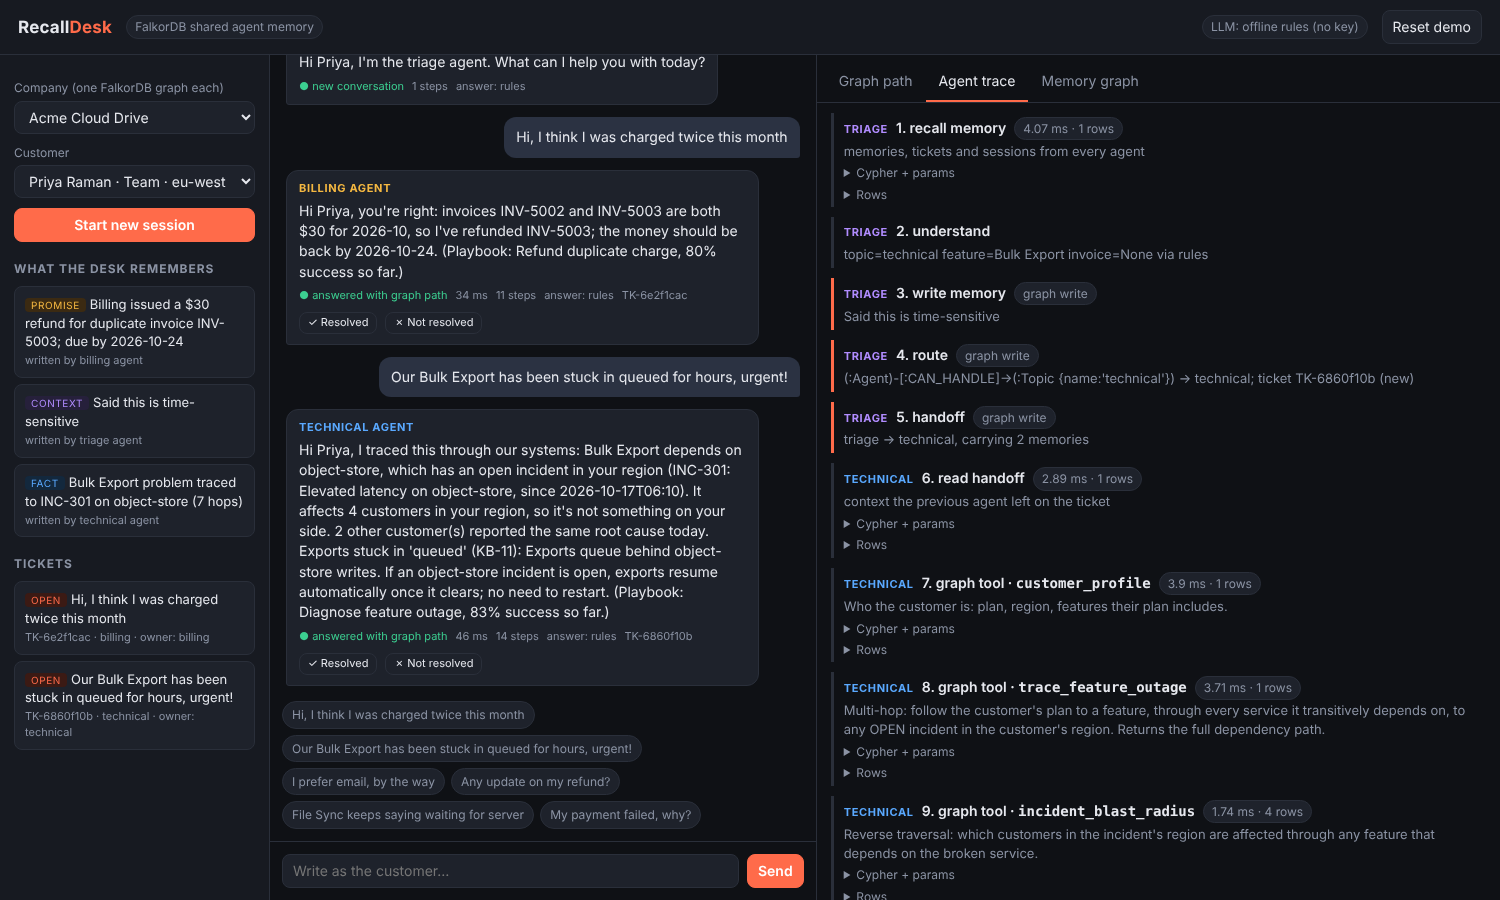
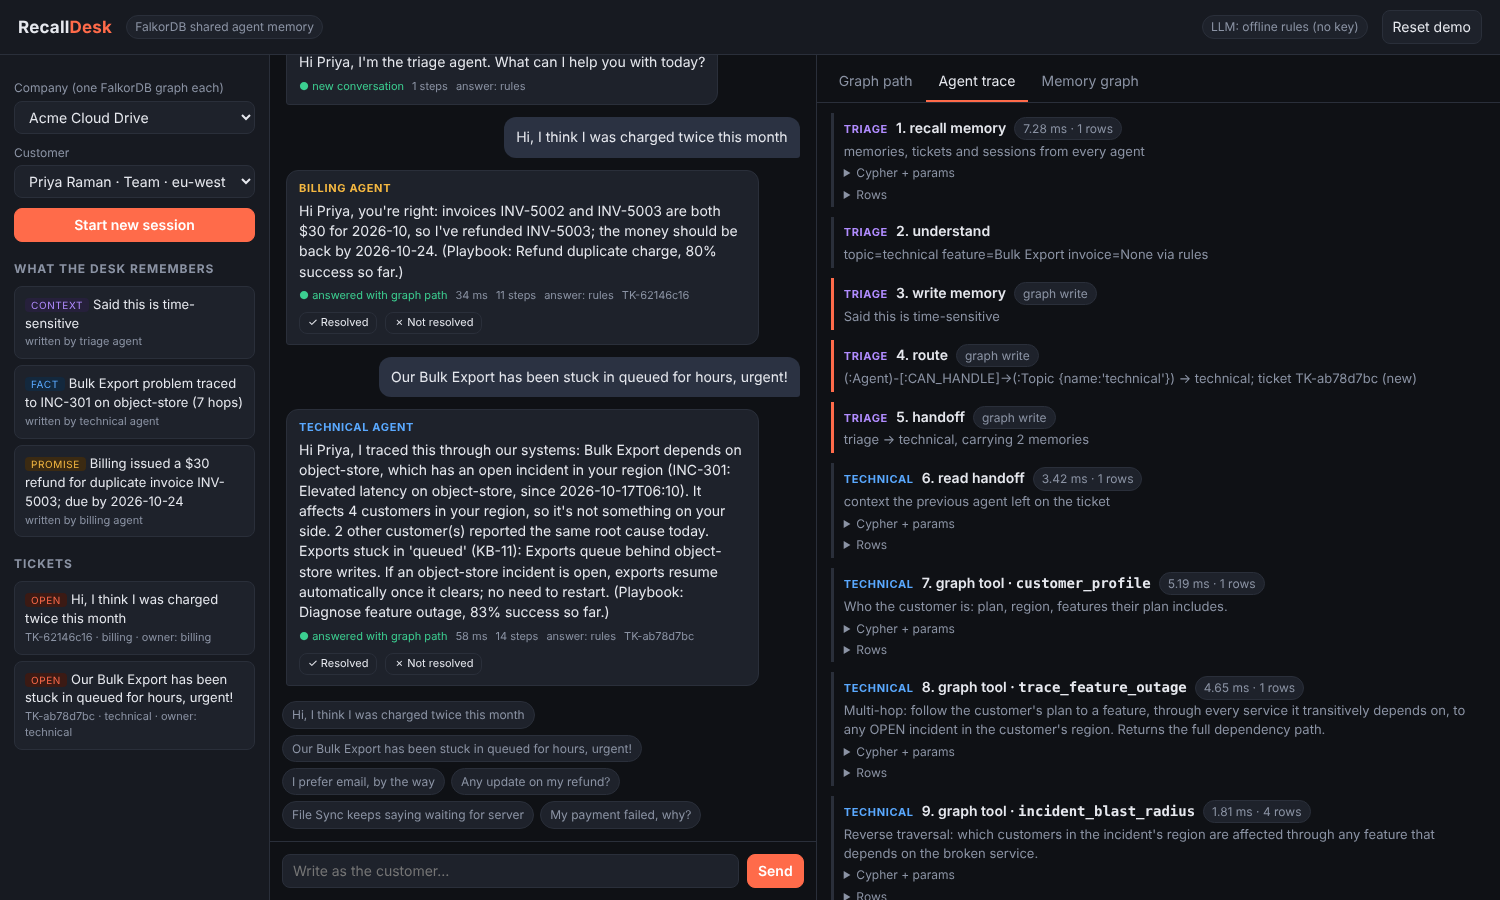
Fix review findings: escape all UI values, drop stale replies, guard double submits
- validate LLM-extracted memory kinds server-side
- reject chat calls whose session belongs to another customer
- disable feedback buttons while the request runs
- destroy old graph views and keep each pane's legend separate

Claude-Session: https://claude.ai/code/session_01CagK68oFQtg6EDcHFuKGZg

diff --git a/static/index.html b/static/index.html
@@ -132,12 +132,14 @@ function addMsg(role, agent, text, meta) {
 
 function renderMemory(m) {
   const mem = m.memories || [], tk = m.tickets || [];
-  $('#memories').innerHTML = mem.length ? mem.map(x => `<div class="mem"><span class="kind k-${x.kind}">${x.kind}</span>${esc(x.text)}<small>written by ${x.by} agent${x.hits > 1 ? ` · seen ${x.hits}×` : ''}</small></div>`).join('') : '<div class="hint">No memories yet.</div>';
-  $('#tickets').innerHTML = tk.length ? tk.map(t => `<div class="mem"><span class="kind k-${t.status}">${t.status}</span>${esc(t.summary)}<small>${t.id} · ${t.topic} · owner: ${t.owner}</small></div>`).join('') : '<div class="hint">No tickets yet.</div>';
+  $('#memories').innerHTML = mem.length ? mem.map(x => `<div class="mem"><span class="kind k-${esc(x.kind)}">${esc(x.kind)}</span>${esc(x.text)}<small>written by ${esc(x.by)} agent${x.hits > 1 ? ` · seen ${x.hits}×` : ''}</small></div>`).join('') : '<div class="hint">No memories yet.</div>';
+  $('#tickets').innerHTML = tk.length ? tk.map(t => `<div class="mem"><span class="kind k-${esc(t.status)}">${esc(t.status)}</span>${esc(t.summary)}<small>${esc(t.id)} · ${esc(t.topic)} · owner: ${esc(t.owner)}</small></div>`).join('') : '<div class="hint">No tickets yet.</div>';
 }
 
-function drawGraph(el, g, highlight) {
-  if (!g || !g.nodes.length) { el.innerHTML = '<div class="hint">No graph elements for this step.</div>'; return null; }
+function drawGraph(el, g, old, legend) {
+  if (old) old.destroy();
+  if (legend) legend.innerHTML = '';
+  if (!g || !g.nodes.length) { el.innerHTML = '<div class="hint">No graph elements for this answer.</div>'; return null; }
   el.innerHTML = '';
   const nodes = g.nodes.map(n => ({id: n.id, label: n.caption.length > 28 ? n.caption.slice(0, 26) + '…' : n.caption,
     title: n.label + '\n' + Object.entries(n.props).map(([k, v]) => `${k}: ${Array.isArray(v) ? v.join(' → ') : v}`).join('\n'),
@@ -148,13 +150,13 @@ function drawGraph(el, g, highlight) {
   const nw = new vis.Network(el, {nodes: new vis.DataSet(nodes), edges: new vis.DataSet(edges)},
     {physics: {solver: 'forceAtlas2Based', forceAtlas2Based: {gravitationalConstant: -60, springLength: 110}, stabilization: {iterations: 150}},
      interaction: {hover: true, tooltipDelay: 80}});
-  $('#legend').innerHTML = [...new Set(g.nodes.map(n => n.label))].map(l => `<span><i style="background:${COLORS[l] || '#888'}"></i>${l}</span>`).join('');
+  if (legend) legend.innerHTML = [...new Set(g.nodes.map(n => n.label))].map(l => `<span><i style="background:${COLORS[l] || '#888'}"></i>${esc(l)}</span>`).join('');
   return nw;
 }
 
 function renderTrace(steps) {
   $('#trace').innerHTML = steps.map((s, i) => `<div class="step ${s.kind}">
-    <div class="h"><span class="who ${s.agent}">${s.agent}</span><span class="a">${i + 1}. ${esc(s.action)}${s.tool ? ` · <code>${s.tool}</code>` : ''}</span>
+    <div class="h"><span class="who ${esc(s.agent)}">${esc(s.agent)}</span><span class="a">${i + 1}. ${esc(s.action)}${s.tool ? ` · <code>${esc(s.tool)}</code>` : ''}</span>
     ${s.ms != null ? `<span class="badge">${s.ms} ms · ${s.row_count} rows</span>` : ''}${s.kind === 'write' ? '<span class="badge">graph write</span>' : ''}</div>
     <div class="d">${esc(s.detail)}</div>
     ${s.cypher ? `<details><summary>Cypher + params</summary><pre>${esc(s.cypher)}\n\n${esc(JSON.stringify(s.params))}</pre></details>` : ''}
@@ -164,41 +166,54 @@ function renderTrace(steps) {
 
 function handle(res) {
   const meta = document.createElement('div'); meta.className = 'meta';
-  meta.innerHTML = `<span class="outcome">● ${res.outcome}</span>${res.ms ? `<span>${res.ms} ms</span>` : ''}<span>${res.trace.length} steps</span><span>answer: ${res.composer}</span>`;
+  meta.innerHTML = `<span class="outcome">● ${esc(res.outcome)}</span>${res.ms != null ? `<span>${res.ms} ms</span>` : ''}<span>${res.trace.length} steps</span><span>answer: ${esc(res.composer)}</span>`;
   if (res.ticket) {
-    meta.innerHTML += `<span>${res.ticket}</span>`;
+    meta.insertAdjacentHTML('beforeend', `<span>${esc(res.ticket)}</span>`);
     for (const [label, ok] of [['✓ Resolved', true], ['✗ Not resolved', false]]) {
       const b = document.createElement('button'); b.textContent = label;
-      b.onclick = async () => { const o = await api('/api/feedback', {tenant: state.tenant, ticket_id: res.ticket, resolved: ok});
-        b.parentElement.querySelectorAll('button').forEach(x => x.remove());
-        meta.insertAdjacentHTML('beforeend', `<span>${o.status}${o.procedure ? ` · playbook "${o.procedure}" now ${o.successes}/${o.successes + o.failures}` : ''}</span>`);
-        refreshMemory(); };
+      b.onclick = async () => {
+        const btns = [...meta.querySelectorAll('button')]; btns.forEach(x => x.disabled = true);
+        try {
+          const o = await api('/api/feedback', {tenant: res.tenant, ticket_id: res.ticket, resolved: ok});
+          btns.forEach(x => x.remove());
+          meta.insertAdjacentHTML('beforeend', `<span>${esc(o.status)}${o.procedure ? ` · playbook "${esc(o.procedure)}" now ${o.successes}/${o.successes + o.failures} wins` : ''}</span>`);
+          refreshMemory();
+        } catch (err) { btns.forEach(x => x.disabled = false); meta.insertAdjacentHTML('beforeend', `<span>feedback failed</span>`); }
+      };
       meta.appendChild(b);
     }
   }
   addMsg('agent', res.agent, res.answer, meta);
   renderMemory(res.memory); renderTrace(res.trace);
-  net = drawGraph($('#net'), res.graph);
+  net = drawGraph($('#net'), res.graph, net, $('#legend'));
   if ($('#pane-mem').classList.contains('on')) refreshMemory();
 }
 
 async function refreshMemory() {
   if (!state.customer) return;
-  const m = await api(`/api/memory/${state.tenant}/${state.customer}`);
+  const cust = state.customer;
+  const m = await api(`/api/memory/${state.tenant}/${cust}`); m.customer = cust;
   renderMemory(m.memory);
-  if ($('#pane-mem').classList.contains('on')) memnet = drawGraph($('#memnet'), m.graph);
+  if (m.customer !== state.customer) return;
+  if ($('#pane-mem').classList.contains('on')) memnet = drawGraph($('#memnet'), m.graph, memnet);
 }
 
+let gen = 0;  // bumps on every new session; replies from an older session are dropped
 async function newSession() {
+  const my = ++gen;
+  state.session = null;
   $('#log').innerHTML = '';
-  const res = await api('/api/session', {tenant: state.tenant, customer_id: state.customer});
-  state.session = res.session_id;
-  handle(res);
+  try {
+    const res = await api('/api/session', {tenant: state.tenant, customer_id: state.customer});
+    if (my !== gen) return;
+    state.session = res.session_id; res.tenant = state.tenant;
+    handle(res);
+  } catch (err) { if (my === gen) addMsg('agent', 'triage', 'Could not start a session: ' + err.message); }
 }
 
 function fillCustomers() {
   const t = state.tenants.find(x => x.id === state.tenant);
-  $('#customer').innerHTML = t.customers.map(c => `<option value="${c.id}">${esc(c.name)} · ${c.plan} · ${c.region}</option>`).join('');
+  $('#customer').innerHTML = t.customers.map(c => `<option value="${esc(c.id)}">${esc(c.name)} · ${esc(c.plan)} · ${esc(c.region)}</option>`).join('');
   state.customer = t.customers[0].id;
 }
 
@@ -206,7 +221,7 @@ async function init() {
   const cfg = await api('/api/config');
   $('#llm').textContent = cfg.provider === 'offline' ? 'LLM: offline rules (no key)' : `LLM: ${cfg.provider} · ${cfg.model}`;
   state.tenants = await api('/api/tenants');
-  $('#tenant').innerHTML = state.tenants.map(t => `<option value="${t.id}">${esc(t.company)}</option>`).join('');
+  $('#tenant').innerHTML = state.tenants.map(t => `<option value="${esc(t.id)}">${esc(t.company)}</option>`).join('');
   state.tenant = state.tenants[0].id; fillCustomers();
   $('#chips').innerHTML = SUGGEST.map(s => `<button type="button">${esc(s)}</button>`).join('');
   $('#chips').onclick = e => { if (e.target.tagName === 'BUTTON') { $('#input').value = e.target.textContent; $('#form').requestSubmit(); } };
@@ -217,19 +232,23 @@ $('#tenant').onchange = e => { state.tenant = e.target.value; fillCustomers(); n
 $('#customer').onchange = e => { state.customer = e.target.value; newSession(); };
 $('#newSession').onclick = newSession;
 $('#reset').onclick = async () => { await api('/api/reset', {}); state.tenants = await api('/api/tenants'); newSession(); };
+let busy = false;
 $('#form').onsubmit = async e => {
   e.preventDefault();
-  const text = $('#input').value.trim(); if (!text) return;
+  const text = $('#input').value.trim(); if (!text || busy || !state.session) return;
+  busy = true; $('#form button').disabled = true;
+  const my = gen, ctx = {tenant: state.tenant, customer_id: state.customer, session_id: state.session, message: text};
   $('#input').value = ''; addMsg('customer', null, text);
   const wait = addMsg('agent', 'triage', 'Reading memory and walking the graph…');
-  try { const res = await api('/api/chat', {tenant: state.tenant, customer_id: state.customer, session_id: state.session, message: text}); wait.remove(); handle(res); }
-  catch (err) { wait.textContent = 'Error: ' + err.message; }
+  try { const res = await api('/api/chat', ctx); if (my === gen) { wait.remove(); res.tenant = ctx.tenant; handle(res); } }
+  catch (err) { if (my === gen) wait.textContent = 'Error: ' + err.message; }
+  finally { busy = false; $('#form button').disabled = false; }
 };
 document.querySelectorAll('.tabs button').forEach(b => b.onclick = () => {
   document.querySelectorAll('.tabs button').forEach(x => x.classList.toggle('on', x === b));
   document.querySelectorAll('.pane').forEach(p => p.classList.toggle('on', p.id === 'pane-' + b.dataset.pane));
   if (b.dataset.pane === 'mem') refreshMemory();
-  if (b.dataset.pane === 'path' && net) net.fit();
+  if (b.dataset.pane === 'path' && net) { net.redraw(); net.fit(); }
 });
 init();
 </script>

diff --git a/recalldesk/agents.py b/recalldesk/agents.py
@@ -131,7 +131,9 @@ def understand(text: str, vocab: dict, history: list[dict], recalled: dict) -> d
     if isinstance(out.get("summary"), str):
         result["summary"] = out["summary"][:160]
     if isinstance(out.get("facts"), list):
-        result["facts"] = [f for f in out["facts"] if isinstance(f, dict) and f.get("text")][:3]
+        result["facts"] = [{"kind": f.get("kind") if f.get("kind") in ("preference", "context") else "context",
+                            "text": str(f["text"])[:200]}
+                           for f in out["facts"] if isinstance(f, dict) and f.get("text")][:3]
     return result
 
 

diff --git a/recalldesk/server.py b/recalldesk/server.py
@@ -79,6 +79,9 @@ def new_session(body: SessionIn):
 def chat(body: ChatIn):
     t = _tenant(body.tenant)
     _customer(t, body.customer_id)
+    if not db.run(t, "MATCH (:Session {id:$s})-[:WITH]->(:Customer {id:$c}) RETURN 1",
+                  {"s": body.session_id, "c": body.customer_id}, read_only=True).rows:
+        raise HTTPException(409, "session does not belong to this customer")
     if not body.message.strip():
         raise HTTPException(400, "empty message")
     return agents.handle_message(t, body.session_id, body.customer_id, body.message.strip()[:2000])
